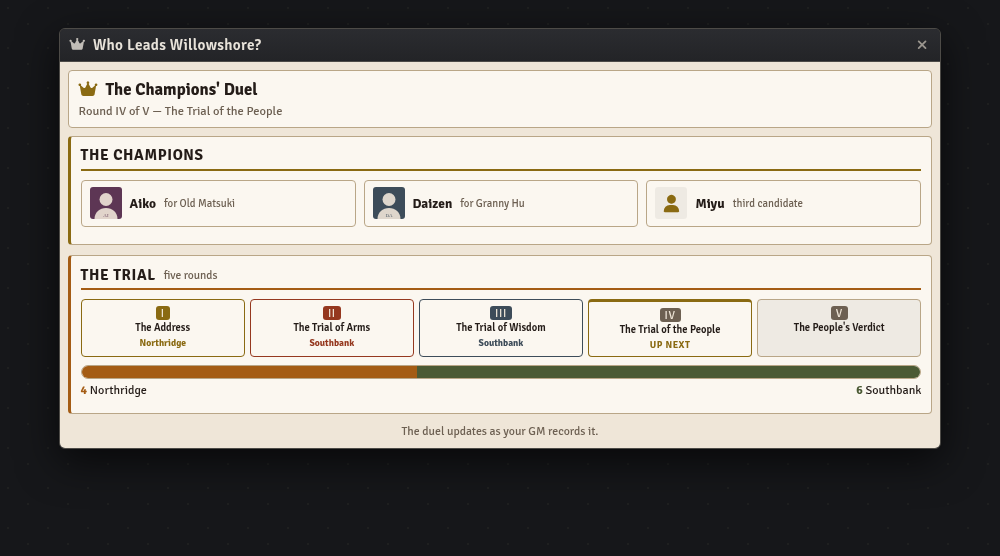
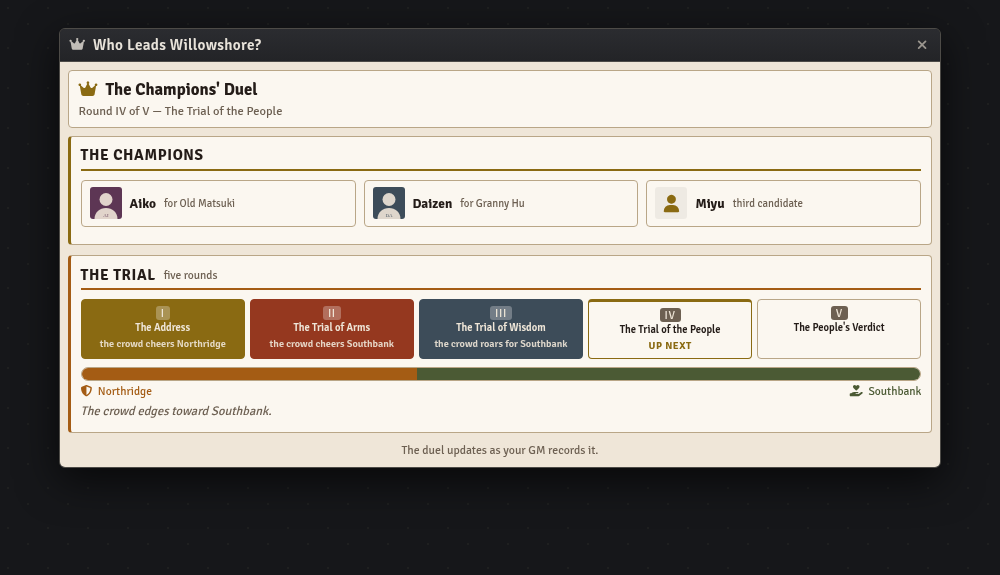
Who Leads Willowshore: reskin the player board's Favor tally as a crowd meter
The player view now reads the crowd, not the score: the raw Favor
numbers are replaced by a two-tone crowd meter (bar + faction ends +
a 'the crowd edges/sways/roars' caption) and each settled round reads
in the square's voice ('the crowd cheers Northridge', 'the crowd
roars for Southbank', 'the crowd applauds both'). Thrown mode keeps a
neutral 'settled' and hides the meter, so nothing scores the fix.
Raw Favor numbers remain GM-only. Regenerated the player screenshot.

Changed region(s): [[0.062, 0.0306, 0.961, 0.8255]]

diff --git a/macros/season-of-ghosts/who-leads-willowshore-console.js b/macros/season-of-ghosts/who-leads-willowshore-console.js
@@ -521,18 +521,36 @@ class WLRApp extends BaseApp {
       : s.winner === "south" ? ELDERS.south.name
       : s.winner === "third" ? (s.third.name || "A champion") : "";
 
+    // The crowd's read on a decided round, in the square's own voice — the
+    // player board shows reaction, not the mechanical score.
+    const crowdReact = (code) => ({
+      "n": "the crowd cheers Northridge",
+      "N": "the crowd roars for Northridge",
+      "s": "the crowd cheers Southbank",
+      "S": "the crowd roars for Southbank",
+      "t": "the crowd applauds both"
+    }[code] ?? "");
+    const crowdLean = () => {
+      const m = f.north - f.south;
+      if (m === 0) return "The crowd is split down the middle — Willowshore cannot yet choose.";
+      const side = m > 0 ? "Northridge" : "Southbank";
+      const a = Math.abs(m);
+      return a >= 6 ? `The crowd roars for ${side}.`
+        : a >= 3 ? `The crowd sways toward ${side}.`
+        : `The crowd edges toward ${side}.`;
+    };
+
     const roundMark = (r) => {
       const code = s.rounds[r.key];
       const done = code != null;
       const isNext = !showVerdict && !done && next?.key === r.key;
-      const win = done && isTrial
-        ? (code === "t" ? "Tie" : code[0].toLowerCase() === "n" ? "Northridge" : "Southbank")
-        : "";
+      const react = done ? (isTrial ? crowdReact(code) : "settled")
+        : (isNext ? "up next" : "");
       return `
         <div class="step ${done ? "done" : ""} ${isNext ? "next" : ""}" style="--st:var(--${TONES.includes(r.tone) ? r.tone : "muted"})">
           <span class="snum">${r.num}</span>
           <span class="sname">${esc(r.name)}</span>
-          <span class="swin">${done ? (isTrial ? esc(win) : "done") : (isNext ? "up next" : "")}</span>
+          <span class="swin">${esc(react)}</span>
         </div>`;
     };
 
@@ -568,9 +586,10 @@ class WLRApp extends BaseApp {
           <h3>The Trial <small>five rounds</small></h3>
           <div class="stepper">${ROUNDS.map(r => roundMark(r)).join("")}</div>
           ${isTrial ? `
-            <div class="tally">
-              <div class="tbar"><div class="tf n" style="width:${pct(f.north)}%"></div><div class="tf s" style="width:${pct(f.south)}%"></div></div>
-              <div class="tlabels"><span class="n"><b>${f.north}</b> Northridge</span><span class="s"><b>${f.south}</b> Southbank</span></div>
+            <div class="crowdmeter">
+              <div class="cbar"><div class="cf n" style="width:${pct(f.north)}%"></div><div class="cf s" style="width:${pct(f.south)}%"></div></div>
+              <div class="cends"><span class="n"><i class="fa-solid ${ELDERS.north.icon}"></i> Northridge</span><span class="s"><i class="fa-solid ${ELDERS.south.icon}"></i> Southbank</span></div>
+              <p class="clean">${crowdLean()}</p>
             </div>` : ""}
         </section>
 
@@ -962,16 +981,26 @@ class WLRApp extends BaseApp {
       .wlw .stepper { display:flex; gap:.3rem; margin:.3rem 0 .5rem; }
       .wlw .step { flex:1; display:flex; flex-direction:column; align-items:center; gap:.15rem;
                    border:1px solid var(--line); border-radius:4px; padding:.35rem .1rem;
-                   background:var(--stripe); text-align:center; }
+                   background:var(--card); text-align:center; cursor:default; }
       .wlw .step .snum { font-size:.7rem; color:var(--paper); background:var(--muted);
                          border-radius:3px; padding:0 5px; letter-spacing:.06em; }
       .wlw .step .sname { font-size:.66rem; line-height:1.15; font-weight:600; }
-      .wlw .step .swin { font-size:.6rem; color:var(--muted); min-height:.75rem; }
-      .wlw .step.done { border-color:var(--st, var(--moss)); background:var(--card); }
-      .wlw .step.done .snum { background:var(--st, var(--moss)); }
-      .wlw .step.done .swin { color:var(--st, var(--moss)); font-weight:700; }
+      .wlw .step .swin { font-size:.64rem; line-height:1.3; color:var(--muted); min-height:.8rem; }
+      .wlw .step.done { background:var(--st, var(--moss)); border-color:var(--st, var(--moss)); color:var(--paper); }
+      .wlw .step.done .snum { background:rgba(255,255,255,.28); color:var(--paper); }
+      .wlw .step.done .sname { color:var(--paper); }
+      .wlw .step.done .swin { color:var(--paper); opacity:.9; font-weight:600; }
       .wlw .step.next { border-color:var(--gold); border-top:3px solid var(--gold); background:var(--card); }
       .wlw .step.next .swin { color:var(--gold); font-weight:700; text-transform:uppercase; letter-spacing:.05em; }
+      .wlw .crowdmeter { margin:.4rem 0 .15rem; }
+      .wlw .cbar { display:flex; height:14px; border-radius:7px; overflow:hidden; border:1px solid var(--line); background:var(--stripe); }
+      .wlw .cf.n { background:var(--ember); }
+      .wlw .cf.s { background:var(--moss); }
+      .wlw .cends { display:flex; justify-content:space-between; margin-top:.2rem; font-size:.72rem; }
+      .wlw .cends .n { color:var(--ember); }
+      .wlw .cends .s { color:var(--moss); }
+      .wlw .cends i { margin-right:.2rem; }
+      .wlw .clean { font-size:.78rem; line-height:1.45; margin:.25rem 0 0; font-style:italic; color:var(--muted); }
       .wlw .verdict { border-left:3px solid var(--plum); }
       .wlw .vline { font-size:.9rem; line-height:1.5; margin:.2rem 0 .4rem; }
 

diff --git a/macros/season-of-ghosts/README.md b/macros/season-of-ghosts/README.md
@@ -229,9 +229,10 @@ Old Matsuki publicly challenges Granny Hu for the town's leadership, settled by 
 - **The thrown-duel variant** from *The Worked Duel*: the conceding elder and the fix's winner are both selectable, so the "does the winner know?" panel and every round's sell text flip to match; scored on a Suspicion track (0–3 Flawless / 4–6 Whispers / 7+ Exposed) with per-round sell deltas, a blowout toggle, and the money-shot finale
 - A **verdict tab** that declares the winner, applies the reversible write-through beats (heal the rift → Hope + Reputation, back the winner, or a bloodbath) to the Fall Downtime Tracker's pools, and marks the level-up to 3
 - Read-aloud for the challenge and the verdict posted to chat in-world; the cast (both elders, the stand-ins, Shinzo, and Heh's shadow) on the landing tab
-- A **spoiler-free player board**: grant OBSERVER permission and players track the champions, the
-  five rounds, and the live Favor tallies as the GM records them — and in the thrown duel the
-  Suspicion track, the sell notes, and the fix stay hidden
+- A **spoiler-free player board**: grant OBSERVER permission and players track the champions and
+  the five rounds the way the crowd sees them — a live crowd meter and each round's reaction
+  (who the square cheers, who it roars for) instead of the mechanical Favor score — and in the
+  thrown duel the Suspicion track, the sell notes, and the fix stay hidden
 
 ![The thrown duel, four rounds sold, Suspicion at Whispers](../../screenshots/season-of-ghosts/who-leads-willowshore-console-thrown.png)
 
@@ -239,18 +240,22 @@ Old Matsuki publicly challenges Granny Hu for the town's leadership, settled by 
 
 #### The player board
 
-![The player board, mid-trial: the champions, the five rounds, and the live Favor tallies](../../screenshots/season-of-ghosts/who-leads-willowshore-console-player.png)
+![The player board, mid-trial: the champions, the five rounds in the crowd's voice, and the crowd meter](../../screenshots/season-of-ghosts/who-leads-willowshore-console-player.png)
 
 Give the macro OBSERVER permission and every player can open a spoiler-free board that tracks the
 duel the way the crowd sees it: the two champions (and any third candidate), a five-round stepper
-marking which rounds are decided, and — once the Trial is underway — the live Favor tallies. It
-re-renders on every GM update through the same world-setting hook that keeps two GM windows in
-sync, so the board moves as the GM records it, with nothing to re-post.
+whose settled rounds read in the square's own voice — "the crowd cheers Northridge", "the crowd
+roars for Southbank", "the crowd applauds both" — and, once the Trial is underway, a crowd meter
+whose bar leans with the town and whose caption says how hard ("The crowd edges toward …" up to
+"The crowd roars for …") rather than the raw Favor score. It re-renders on every GM update through
+the same world-setting hook that keeps two GM windows in sync, so the board moves as the GM
+records it, with nothing to re-post.
 
 What the crowd can't see stays off the board. In the thrown duel the board still marks the round
-progress, but there is no Suspicion number, no sell notes, no fix, and no verdict until all five
-rounds are done — the secret the party is trying to keep never appears in a player's window. The
-GM's cast cards, the beats, and the level-up flag are GM-only too.
+progress (each settled round reads "settled" with no score), but there is no Suspicion number, no
+sell notes, no fix, and no verdict until all five rounds are done — the secret the party is trying
+to keep never appears in a player's window. The GM's cast cards, the beats, and the level-up flag
+are GM-only too.
 
 ### Campaign Status Tracker
 

diff --git a/CHANGELOG.md b/CHANGELOG.md
@@ -1,5 +1,19 @@
 # Changelog
 
+## 2026-08-17 13:47
+
+### Changed
+- **Who Leads Willowshore? — the player board now reads the crowd, not the score.** The player
+  view's mechanical Favor tally (raw `Northridge N · Southbank M` numbers) is gone, reskinned as
+  a **crowd meter**: the same two-tone bar now leans with the town, ends labelled by faction, and
+  a caption that says how hard the crowd is pulling ("The crowd is split down the middle", "…edges
+  toward …", "…sways toward …", "…roars for …"). Each settled round of the five-round stepper now
+  reads in the square's own voice too — "the crowd cheers Northridge", "the crowd roars for
+  Southbank", "the crowd applauds both" — styled as a filled chip instead of a plain text label,
+  and it updates as the GM records the round through the existing sync hook. In the thrown duel
+  each settled round reads a neutral "settled" and the crowd meter stays hidden, so nothing scores
+  the fix. The raw Favor numbers remain only on the GM console.
+
 ## 2026-08-17 13:32
 
 ### Added
